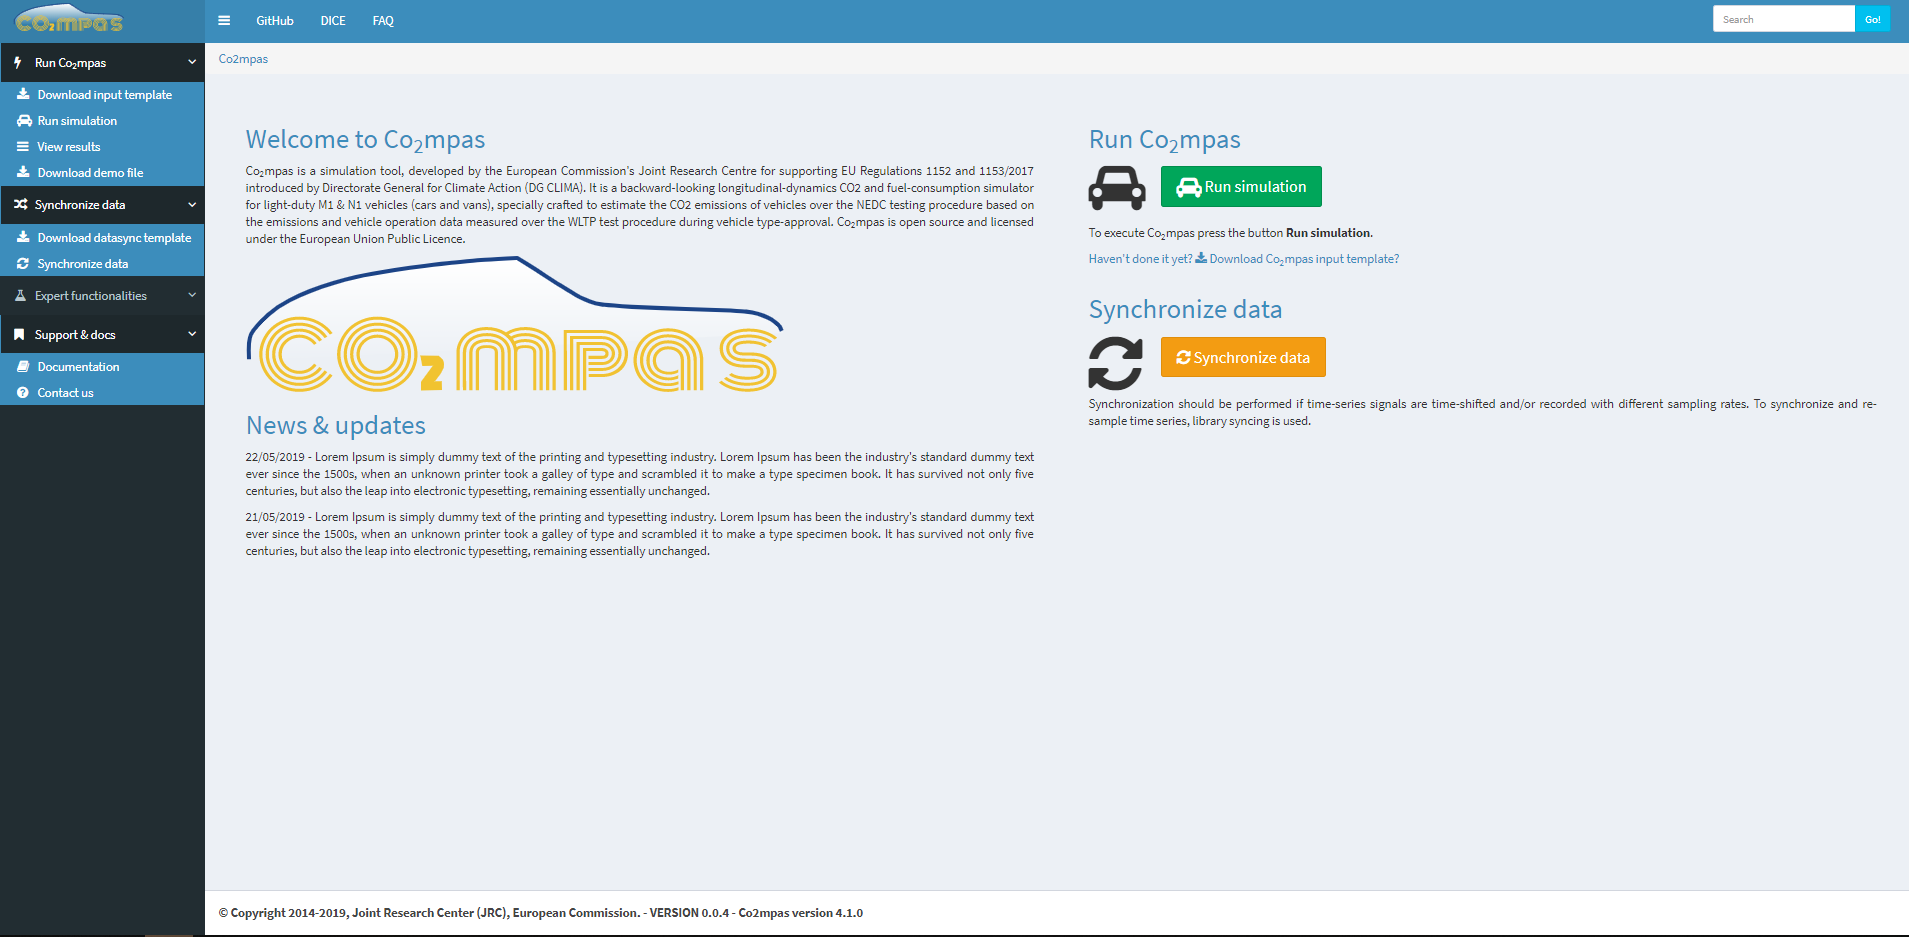
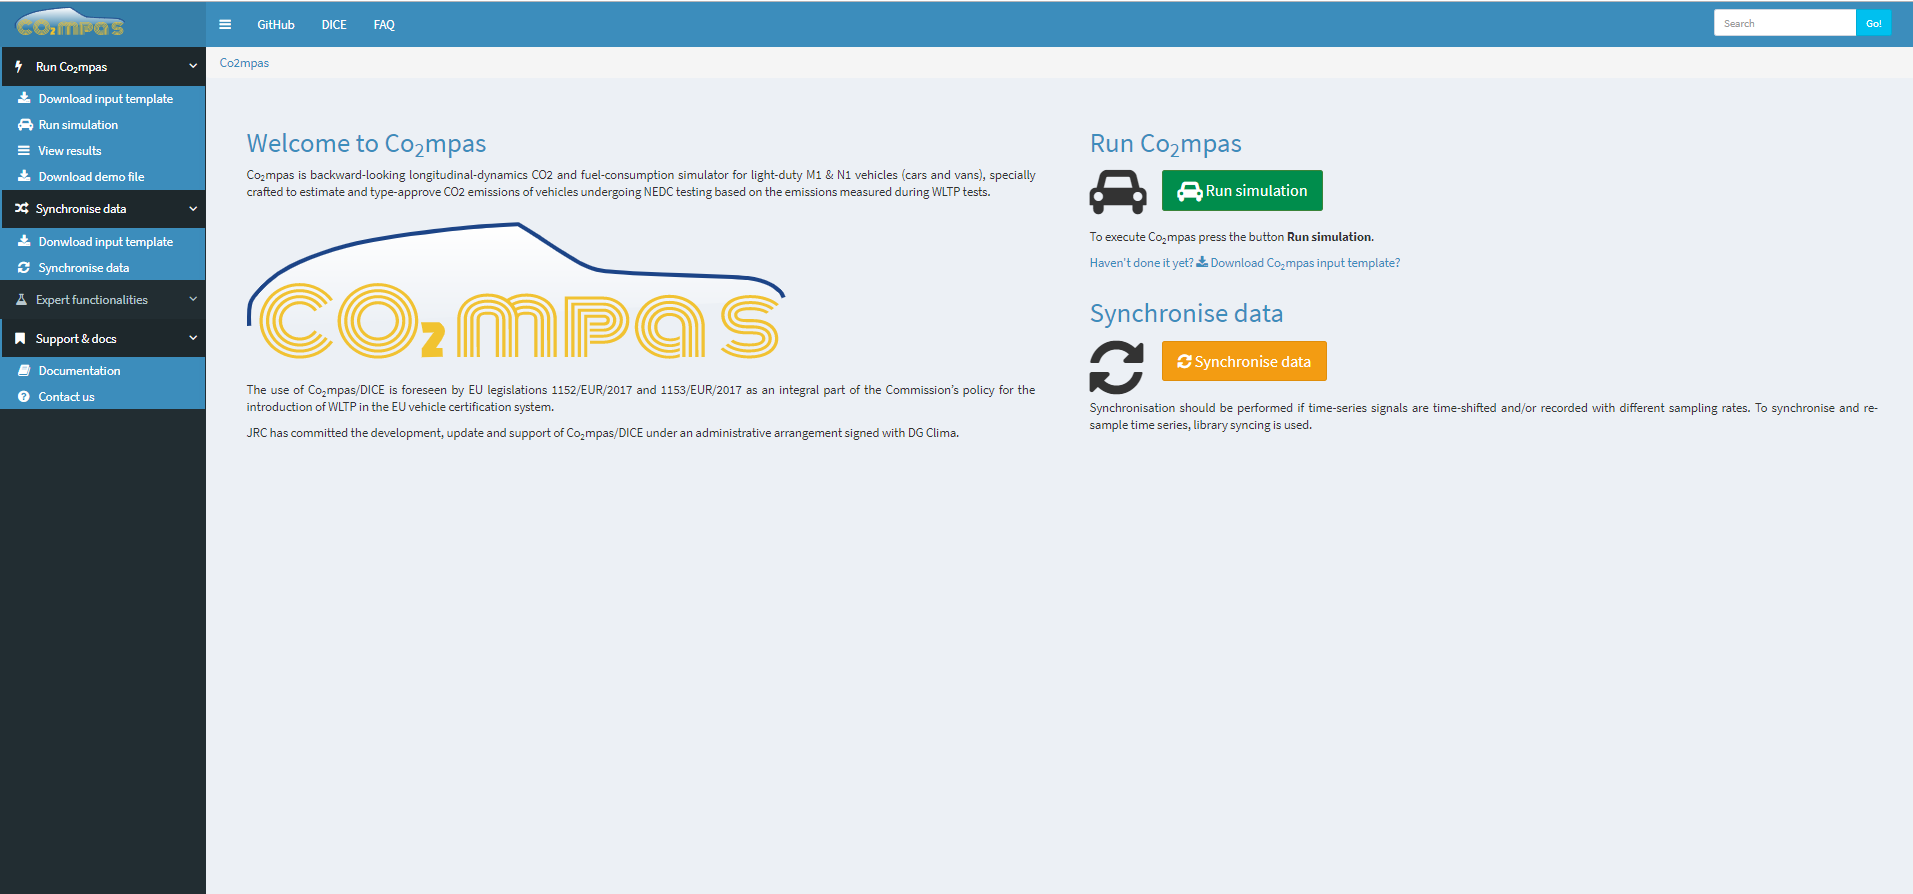
fix(doc), #533: Fix GUI image and console command.

Changed region(s): [[0.0, 0.0, 1.0, 0.604], [0.0, 0.9664, 1.0, 1.0]]

diff --git a/AUTHORS.rst b/AUTHORS.rst
@@ -27,6 +27,6 @@ Supervision:
     - Konstantinidis Spyridon <Spyridon.konstantinidis@ext.ec.europa.eu>
 Tester:
     - Komnos Dimitrios <dimitrios.komnos@ext.ec.europa.eu>
-    - Makie Ashenafi <ashenafi.amkie@ext.ec.europa.eu>
+    - Makie Ashenafi <ashenafi.makie@ext.ec.europa.eu>
     - Prado Rujas Ignacio Iker <iker.prado-rujas@ext.ec.europa.eu>
 

diff --git a/README.rst b/README.rst
@@ -233,7 +233,7 @@ To launch the |co2mpas| GUI from the console, you can use the following
 command::
 
     ## Open the GUI of co2mpas.
-    $ co2mpas gui
+    $ co2wui run
 
 .. image:: _static/image/gui_start_up.png
    :width: 100%
